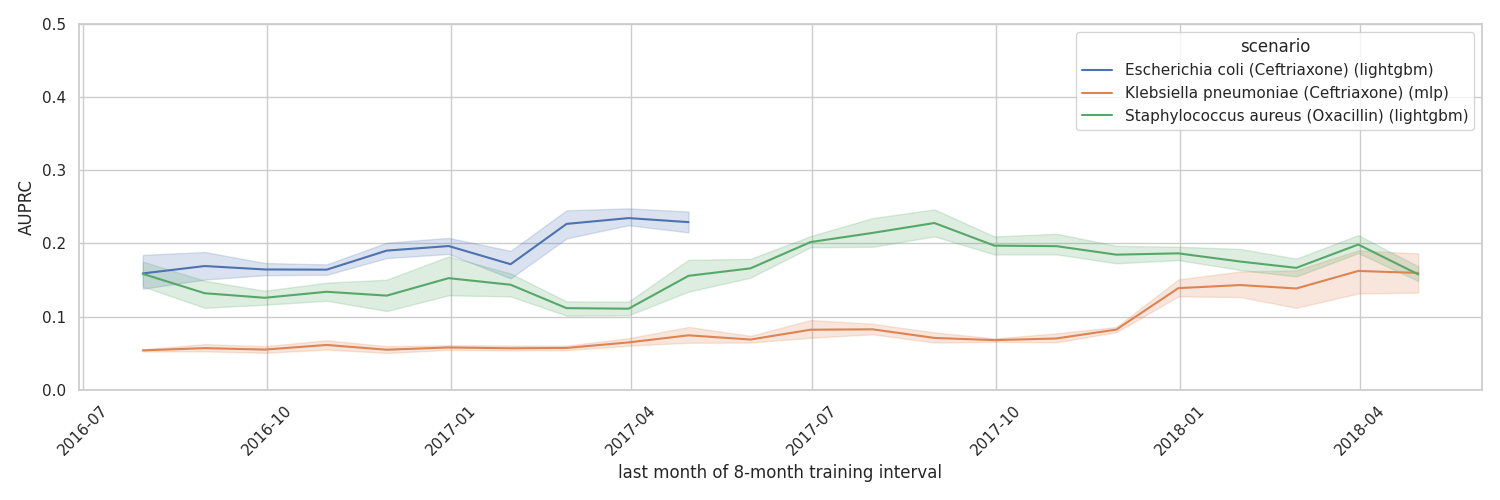
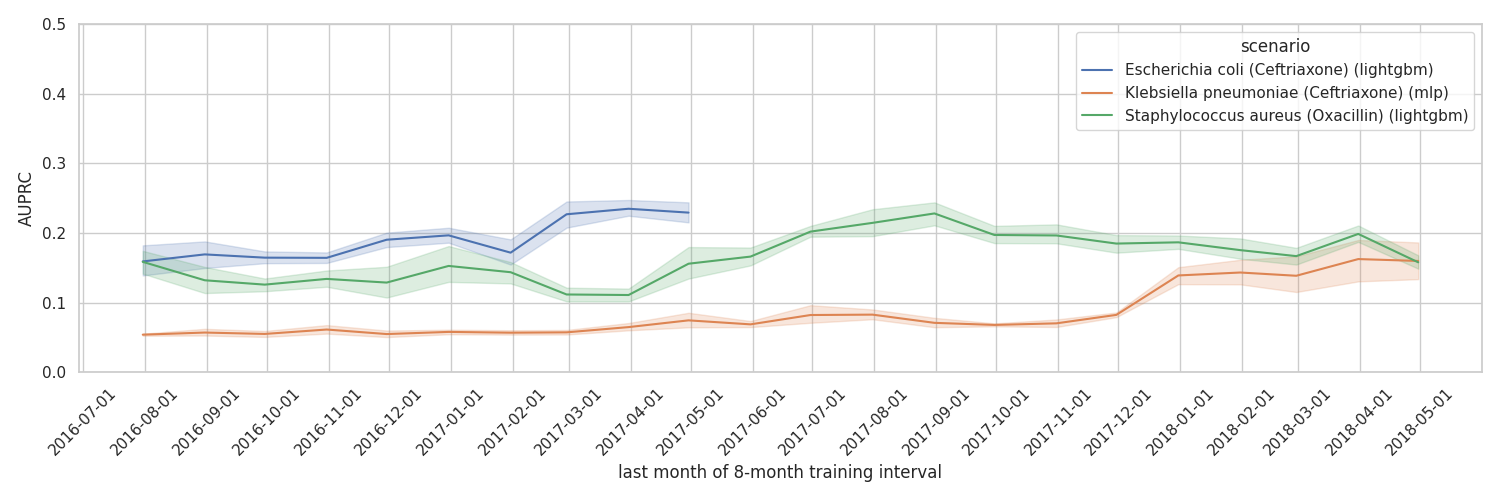
improved looks

diff --git a/amr_maldi_ml/plotting/plot_sliding_window_validation_major_scenarios.py b/amr_maldi_ml/plotting/plot_sliding_window_validation_major_scenarios.py
@@ -5,6 +5,7 @@ import json
 import glob
 
 import matplotlib.pyplot as plt
+import matplotlib.dates as mdates
 
 import numpy as np
 import pandas as pd
@@ -114,10 +115,18 @@ if __name__ == '__main__':
     plt.xlabel('last month of 8-month training interval')
     plt.ylabel(f'{args.metric}'.upper())
 
+    # Minor ticks every month.
+    fmt_month = mdates.MonthLocator(interval=1)
+    ax.xaxis.set_major_locator(fmt_month)
+    
+    # Format dates in xticks.
+    ax.xaxis.set_major_formatter(mdates.DateFormatter('%Y-%m-%d'))
+
     if args.metric == 'auprc':
         plt.ylim((0.0,0.5))
     else:
-        plt.ylim((0.5,0.0))
+        plt.ylim((0.0,1.0))
+        plt.axhline(0.5, color='lightgrey', linestyle='--')
 
     if args.suffix != '':
         suffix = '_' + args.suffix
